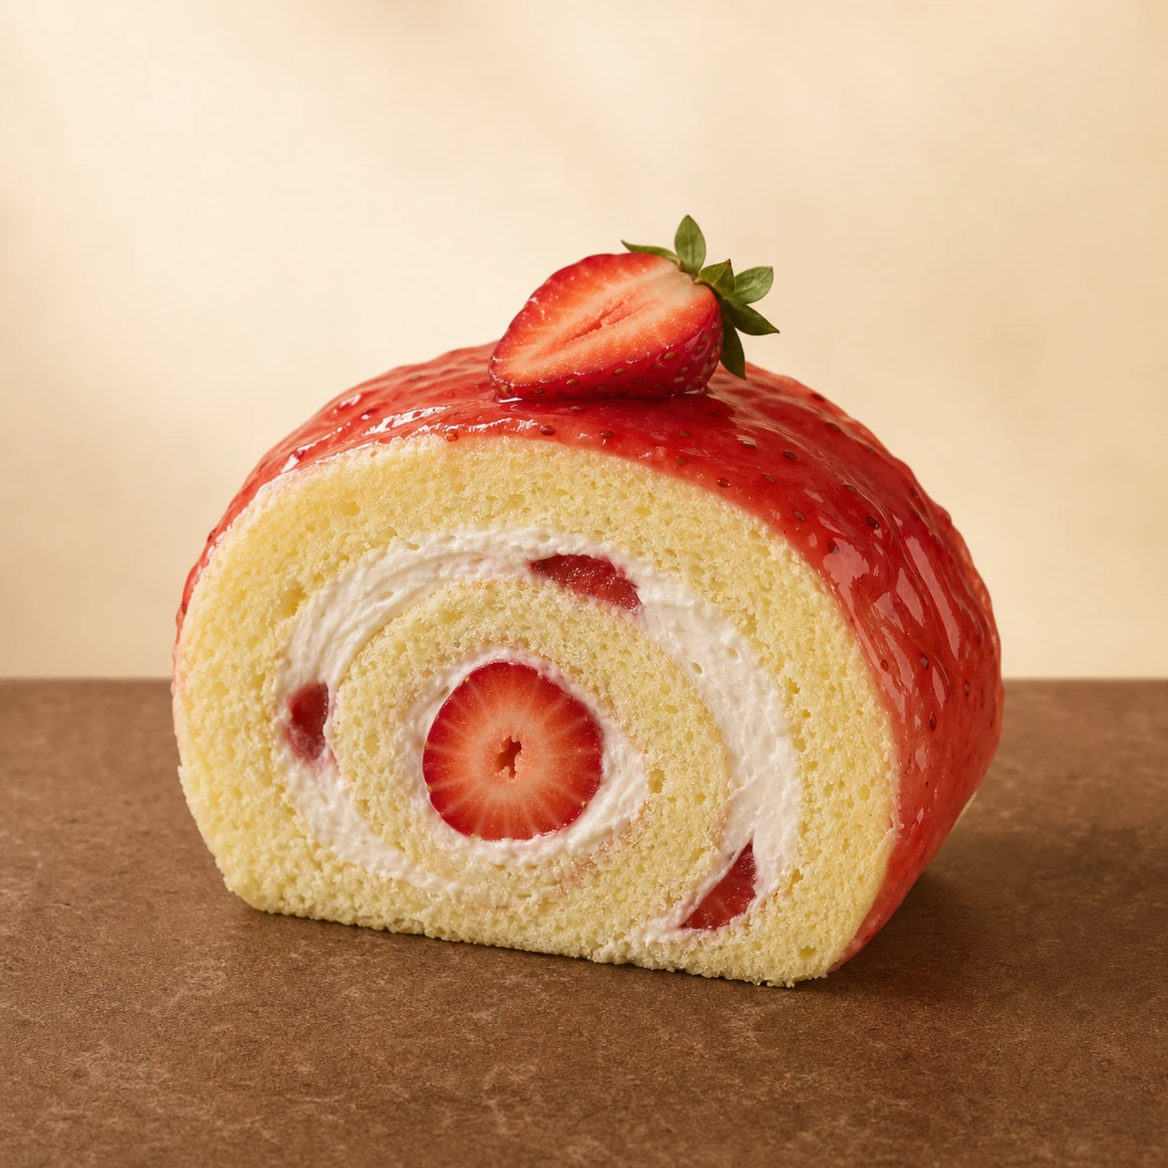
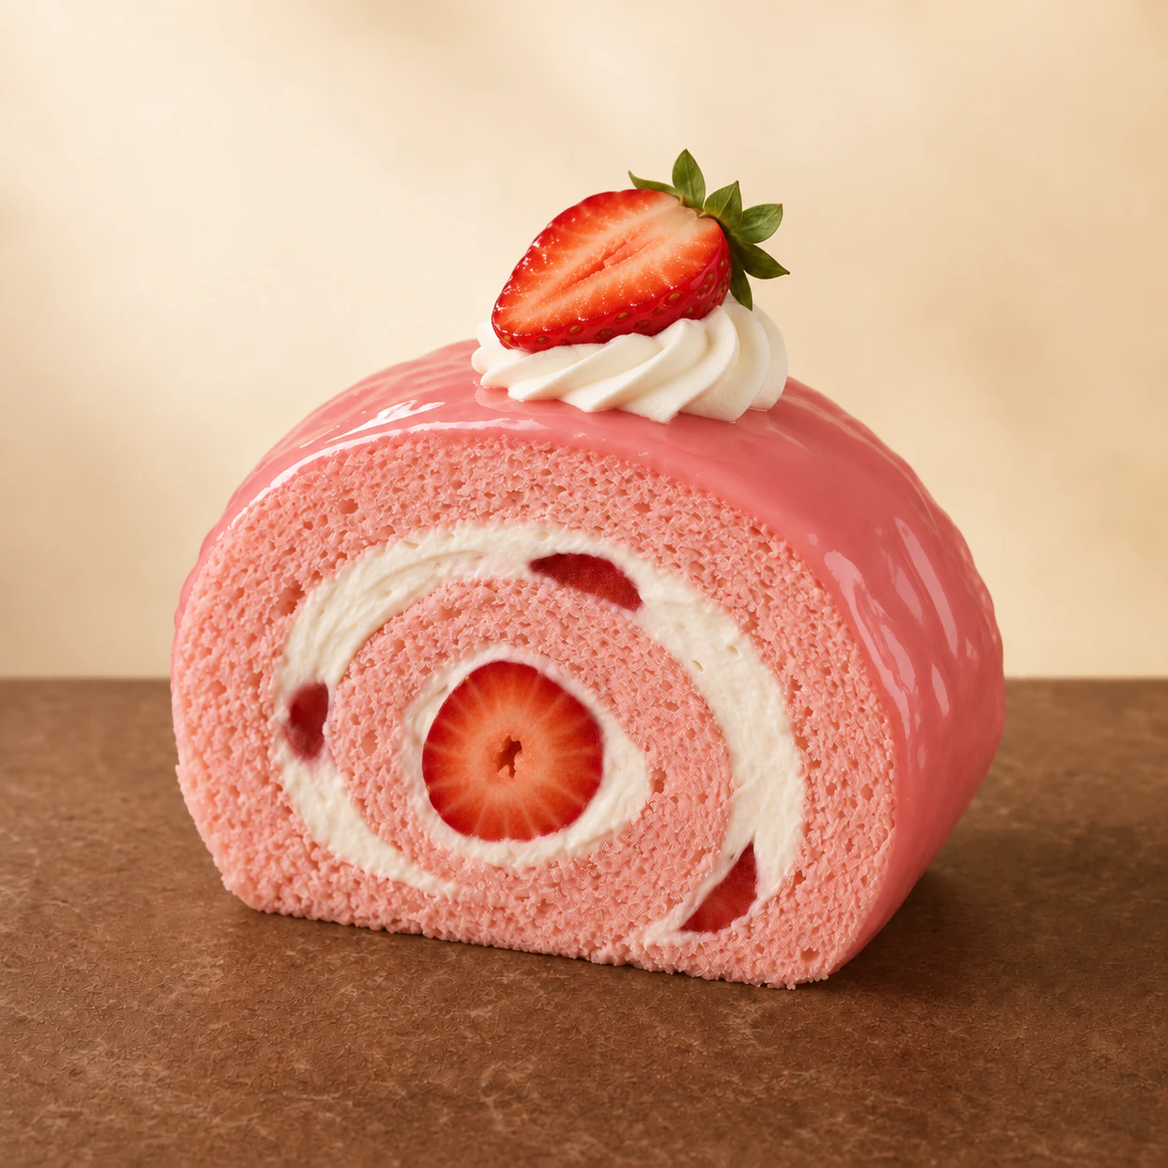
Update roll cake imagery and catalog

diff --git a/app/page.tsx b/app/page.tsx
@@ -15,7 +15,7 @@ type Product = {
   image: string;
 };
 
-const sku = (file: string) => `/products-studio/sku/${file}.webp`;
+const sku = (file: string) => `/products-studio/sku/${file.includes(".") ? file : `${file}.webp`}`;
 const makeProducts = (
   category: string,
   detail: string,
@@ -40,11 +40,10 @@ const products: Product[] = [
     ["İbiza Muzlu", "ibiza-muzlu"],
     ["İbiza Çilekli", "ibiza-cilekli"],
   ]),
-  ...makeProducts("Tartlar", "Tek porsiyon · çıtır taban", [
+  ...makeProducts("Tartlar", "Dilim servis · cafe seçkisi", [
     ["Çilekli Tart", "tart-cilekli"],
     ["Orman Meyveli Tart", "tart-orman-meyveli"],
     ["Lotuslu Tart", "tart-lotuslu"],
-    ["Oreolu Tart", "tart-oreolu"],
   ]),
   ...makeProducts("Cheesecake", "Dilim servis · cafe seçkisi", [
     ["San Sebastian", "cheesecake-san-sebastian"],
@@ -57,14 +56,15 @@ const products: Product[] = [
     ["Orman Meyveli Cheesecake", "cheesecake-orman-meyveli"],
   ]),
   ...makeProducts("Tek Pastalar", "Tek porsiyon · modern vitrin", [
-    ["Tropik Kubbe", "tek-tropical-entreme"],
-    ["Velvet Frambuaz", "tek-angel"],
     ["Vişne Beyaz", "tek-cherry-white"],
     ["Frambuaz Hindistan Cevizi", "tek-raspberry-coconut"],
     ["Fındık Pralin Baton", "tek-ferrero-stick"],
     ["Passion Lime Baton", "tek-passion-coconut-stick"],
-    ["Çilek Antep Fıstığı Kat", "tek-cilekli-kat"],
-    ["Sütlü Çikolata Karamel", "tek-milky-chocolate-mosaic"],
+    ["Sütlü Çikolata Karamel", "tek-sutlu-cikolata-karamel-v2.png"],
+    ["KitKat & Altın Çilek", "tek-kitkat-altin-cilek.png"],
+    ["Portakallı Balkabağı", "tek-portakalli-balkabagi.png"],
+    ["Çilekli Mousse", "tek-cilekli-mousse.png"],
+    ["Tahinli", "tek-tahinli.png"],
   ]),
   ...makeProducts("Magnolia", "330 cc kare cam kase", [
     ["Çilekli Magnolia", "magnolia-cilekli"],
@@ -80,11 +80,12 @@ const products: Product[] = [
     ["Dubai Magnolia", "magnolia-dubai"],
   ]),
   ...makeProducts("Mono Pasta", "8 cm genişlik · 7–8 cm yükseklik", [
-    ["Lotus", "mono-lotus"],
-    ["Lime", "mono-lime"],
-    ["Frambuaz", "mono-frambuaz"],
-    ["Mango Ananas", "mono-mango-ananas"],
-    ["Antep Fıstığı Dubai", "mono-antep-fistikli-dubai"],
+    ["Lotus", "mono-lotus-v2.png"],
+    ["Lime", "mono-lime-v2.png"],
+    ["Frambuaz", "mono-frambuaz-v2.png"],
+    ["Mango Ananas", "mono-mango-ananas-v2.png"],
+    ["Antep Fıstığı Dubai", "mono-antep-fistikli-dubai-v2.png"],
+    ["Oreo", "mono-oreo.png"],
   ]),
   ...makeProducts("Adet Pastalar", "Yaklaşık 10 cm · tam sıvalı", [
     ["Lotuslu Pasta", "adet-lotuslu"],
@@ -103,8 +104,16 @@ const products: Product[] = [
     ["Antep Fıstıklı", "pasta-antep-fistikli"],
     ["Beyaz Çikolatalı", "pasta-beyaz-cikolatali"],
     ["Ganaj Çikolatalı", "pasta-cikolatali-ganaj"],
+    ["Karamelli Pasta", "pasta-karamelli-v2.png"],
     ["Red Velvet Pasta", "pasta-red-velvet"],
     ["Devil’s Pasta", "pasta-devils"],
+  ]),
+  ...makeProducts("Pasta Çeşitleri", "Dilim pasta · beşli seri", [
+    ["Devil’s Dilim Pasta", "dilim-devils-v2.png"],
+    ["Red Velvet Dilim Pasta", "dilim-red-velvet-v2.png"],
+    ["Karamelli Dilim Pasta", "dilim-karamelli-v2.png"],
+    ["Beyaz Çikolatalı Dilim Pasta", "dilim-beyaz-cikolatali-v2.png"],
+    ["Antep Fıstıklı Dilim Pasta", "dilim-antep-fistikli-v2.png"],
   ]),
   ...makeProducts("Trileçe", "Tek porsiyon", [
     ["Karamel Trileçe", "karamel-trilece"],
@@ -115,6 +124,8 @@ const products: Product[] = [
 ];
 
 const categories = ["Tümü", ...Array.from(new Set(products.map((product) => product.category)))];
+const cafeCategories = ["Ekler", "Rulo Pastalar", "Tartlar", "Cheesecake", "Tek Pastalar", "Magnolia", "Mono Pasta"];
+const pastaneCategories = ["Adet Pastalar", "Pasta Çeşitleri", "Trileçe"];
 const whatsapp = (message: string) =>
   `https://wa.me/905015740522?text=${encodeURIComponent(message)}`;
 
@@ -220,7 +231,7 @@ export default function Home() {
           <h1>Lezzette güven, <em>sunumda kalite.</em></h1>
           <p className="hero-campaign-lead">Kafe, restoran ve işletmeler için özenle hazırlanan, servise hazır premium tatlı çözümleri.</p>
           <div className="hero-campaign-actions">
-            <a className="hero-campaign-cta" href="#urunler">69 lezzeti keşfet <span>↓</span></a>
+            <a className="hero-campaign-cta" href="#urunler">{products.length} lezzeti keşfet <span>↓</span></a>
             <a className="hero-campaign-link" href="/hikayemiz">Bizi tanıyın <span>↗</span></a>
           </div>
         </div>
@@ -232,7 +243,7 @@ export default function Home() {
       <section className="products-section" id="urunler">
         <div className="products-heading">
           <div><p className="section-index">01 / Tam seçkimiz</p><h2>Favorini seç,<br /><em>farkını göster.</em></h2></div>
-          <p>On ana kategoride profesyonel servis temposuna hazır, sunumu güçlü ve lezzeti tutarlı 69 ayrı ürün.</p>
+          <p>Kafe ve pastanelerin servis temposuna hazır, sunumu güçlü ve lezzeti tutarlı seçkin bir ürün yelpazesi.</p>
         </div>
         <aside className="price-list-cta" aria-label="Fiyat listesi talebi">
           <div>
@@ -240,6 +251,10 @@ export default function Home() {
             <h3>Listeyi iste,<br /><em>biz gönderelim.</em></h3>
           </div>
           <div className="price-list-action">
+            <div className="price-category-groups">
+              <p><strong>Kafe ürünleri</strong>{cafeCategories.join(" · ")}</p>
+              <p><strong>Pastane grubu</strong>{pastaneCategories.join(" · ")}</p>
+            </div>
             <p>Menü kapsamına ve sipariş adedine göre güncellenen fiyat listemizi WhatsApp&apos;tan talep edin.</p>
             <a href={whatsapp("Merhaba, Best Gourmet fiyat listesini almak istiyorum.")} target="_blank" rel="noreferrer">Fiyat listesini iste <span>↗</span></a>
           </div>
@@ -275,7 +290,12 @@ export default function Home() {
           {visibleProducts.map((product, index) => (
             <article className="product-card" key={`${product.category}-${product.name}`}>
               <div className="product-image-wrap">
-                <img src={product.image} alt={product.name} loading={index > 7 ? "lazy" : "eager"} />
+                <img
+                  className={product.name.startsWith("İbiza ") ? "product-image-contain" : undefined}
+                  src={product.image}
+                  alt={product.name}
+                  loading={index > 7 ? "lazy" : "eager"}
+                />
                 <span className="product-number">{String(index + 1).padStart(2, "0")}</span>
                 <a className="product-action" href={whatsapp(`Merhaba, ${product.name} (${product.category}) için bilgi ve fiyat almak istiyorum.`)} target="_blank" rel="noreferrer" aria-label={`${product.name} için WhatsApp'tan bilgi al`}>↗</a>
               </div>
@@ -287,7 +307,10 @@ export default function Home() {
       </section>
 
       <section className="production" id="uretim">
-        <div className="production-photo"><img src={sku("magnolia-lotuslu")} alt="Best Gourmet üretiminden Lotuslu Magnolia" /></div>
+        <div className="production-photo production-collage">
+          <img className="production-main-image" src="/production/uretim-studio.png" alt="Best Gourmet üretim mutfağı ve günlük tatlı hazırlığı" />
+          <div className="production-sample-card"><img src="/production/numune-kutusu-01.jpg" alt="Best Gourmet numune paketi" /><span>Numune paketi</span></div>
+        </div>
         <div className="production-copy">
           <p className="section-index light">02 / Üretim standardı</p>
           <h2>Her servis,<br />aynı <em>iyi his.</em></h2>
@@ -309,10 +332,10 @@ export default function Home() {
           collectionName="Etkinlik seçkisi"
           items={[
             { id: "ekler", image: sku("ekler-karisik-mix"), title: "Karışık Mix", category: "Fransız Ekleri" },
-            { id: "rulo", image: sku("rulo-cilekli"), title: "Çilekli Rulo", category: "Rulo Pastalar" },
+            { id: "rulo", image: sku("rulo-cilekli"), title: "Çilekli Rulo", category: "Rulo Pastalar", imageFit: "contain" },
             { id: "tart", image: sku("tart-orman-meyveli"), title: "Orman Meyveli", category: "Tartlar" },
             { id: "cheesecake", image: sku("cheesecake-san-sebastian"), title: "San Sebastian", category: "Cheesecake" },
-            { id: "tek", image: sku("tek-tropical-entreme"), title: "Tropik Kubbe", category: "Tek Pastalar" },
+            { id: "tek", image: sku("tek-kitkat-altin-cilek.png"), title: "KitKat & Altın Çilek", category: "Tek Pastalar" },
             { id: "magnolia", image: sku("magnolia-dubai"), title: "Dubai Magnolia", category: "Magnolia" },
             { id: "mono", image: sku("mono-frambuaz"), title: "Frambuaz Mono", category: "Mono Pasta" },
             { id: "adet-pasta", image: sku("adet-orman-meyveli"), title: "Orman Meyveli", category: "Adet Pastalar" },

diff --git a/app/globals.css b/app/globals.css
@@ -206,6 +206,9 @@ h1 em, h2 em { color: var(--caramel); font-weight: 400; }
 .price-list-cta h3 em { color: var(--caramel-light); }
 .price-list-action { position: relative; z-index: 1; max-width: 390px; }
 .price-list-action > p { margin: 0; color: rgba(246,240,231,.71); font-size: 14px; line-height: 1.65; }
+.price-category-groups { display: grid; gap: 14px; margin-bottom: 22px; padding-bottom: 20px; border-bottom: 1px solid rgba(246,240,231,.2); }
+.price-category-groups p { margin: 0; color: rgba(246,240,231,.7); font-size: 11px; line-height: 1.55; }
+.price-category-groups strong { display: block; margin-bottom: 4px; color: var(--caramel-light); font-size: 10px; letter-spacing: .11em; text-transform: uppercase; }
 .price-list-action a { display: inline-flex; align-items: center; gap: 24px; margin-top: 25px; padding-bottom: 10px; border-bottom: 1px solid var(--caramel-light); color: var(--cream); text-transform: uppercase; letter-spacing: .13em; font-size: 10px; font-weight: 900; transition: color .2s ease, gap .2s ease; }
 .price-list-action a:hover { color: var(--caramel-light); gap: 31px; }
 .price-list-action span { font-size: 17px; line-height: .6; }
@@ -233,6 +236,7 @@ h1 em, h2 em { color: var(--caramel); font-weight: 400; }
 .product-card { min-width: 0; }
 .product-image-wrap { aspect-ratio: 1 / 1; position: relative; overflow: hidden; background: var(--sand); }
 .product-image-wrap img { height: 100%; object-fit: cover; transition: transform .6s cubic-bezier(.2,.7,.2,1); }
+.product-image-wrap img.product-image-contain { object-fit: contain; object-position: center; }
 .product-card:hover img { transform: scale(1.045); }
 .product-number { position: absolute; left: 16px; top: 16px; background: rgba(255,253,249,.9); padding: 8px 10px; font-size: 10px; letter-spacing: .12em; font-weight: 800; }
 .product-action { position: absolute; right: 16px; bottom: 16px; width: 46px; height: 46px; border-radius: 50%; display: grid; place-items: center; background: var(--paper); font-size: 19px; transition: .25s; }
@@ -246,6 +250,11 @@ h1 em, h2 em { color: var(--caramel); font-weight: 400; }
 .production { display: grid; grid-template-columns: 1fr 1fr; min-height: 790px; background: var(--brown); color: var(--cream); }
 .production-photo { min-height: 650px; overflow: hidden; }
 .production-photo img { height: 100%; object-fit: cover; filter: saturate(.76) sepia(.09); }
+.production-collage { position: relative; padding: 28px; background: #28140d; }
+.production-collage .production-main-image { width: 100%; height: 100%; object-fit: cover; filter: saturate(.7) sepia(.12) contrast(1.05); }
+.production-sample-card { position: absolute; right: 18px; bottom: 20px; width: min(46%, 290px); padding: 8px; background: var(--cream); box-shadow: 0 20px 50px rgba(0,0,0,.38); transform: rotate(3deg); }
+.production-sample-card img { display: block; width: 100%; height: auto; aspect-ratio: 1 / .9; object-fit: cover; filter: saturate(.78) sepia(.08); }
+.production-sample-card span { display: block; padding: 10px 5px 4px; color: var(--brown); font-size: 9px; font-weight: 900; letter-spacing: .13em; text-transform: uppercase; }
 .production-copy { padding: clamp(64px, 8vw, 130px); display: flex; flex-direction: column; justify-content: center; }
 .section-index.light { color: var(--caramel-light); }
 .production h2 { margin-top: 28px; }
@@ -276,6 +285,7 @@ h1 em, h2 em { color: var(--caramel); font-weight: 400; }
 .pastry-gallery-cards { position: absolute; inset: 0; display: flex; justify-content: center; align-items: flex-end; pointer-events: none; }
 .pastry-gallery-card { position: absolute; bottom: 86px; width: clamp(150px, 13vw, 176px); aspect-ratio: .78; border-radius: 17px; overflow: hidden; background: var(--paper); border: 7px solid var(--paper); box-shadow: 0 22px 48px rgba(42,22,15,.26); transform-origin: 50% 100%; transform: translate3d(calc(var(--offset) * 5px), calc(var(--offset) * -3px + var(--drag-y)), 0) rotate(calc(var(--offset) * 2.1deg)) scale(var(--stack-scale)); transition: transform .7s cubic-bezier(.2,.82,.2,1), box-shadow .35s ease, filter .35s ease; touch-action: none; user-select: none; }
 .pastry-gallery-card img { width: 100%; height: 100%; object-fit: cover; pointer-events: none; }
+.pastry-gallery-card img.product-image-contain { object-fit: contain; object-position: center; }
 .pastry-card-caption { position: absolute; inset: auto 0 0; padding: 38px 15px 14px; color: var(--white); background: linear-gradient(transparent, rgba(31,14,8,.86)); display: grid; gap: 4px; opacity: 0; transform: translateY(8px); transition: .35s ease; }
 .pastry-card-caption span { text-transform: uppercase; letter-spacing: .16em; font-size: 7px; font-weight: 800; color: var(--caramel-light); }
 .pastry-card-caption strong { font-family: Georgia, serif; font-size: 17px; font-weight: 500; }
@@ -447,6 +457,8 @@ footer p:last-child { text-align: right; }
 .brand-page-hero-copy p { margin: 0 0 36px; color: rgba(42,22,15,.68); font-family: Georgia, serif; font-size: clamp(21px, 2vw, 31px); line-height: 1.42; letter-spacing: -.025em; }
 
 .story-editorial { display: grid; grid-template-columns: .9fr 1.1fr; min-height: 930px; }
+.story-editorial.story-text-only { display: block; min-height: 0; background: var(--cream); }
+.story-editorial.story-text-only .story-editorial-copy { max-width: 1080px; min-height: 0; margin: 0 auto; }
 .story-photo { min-height: 760px; overflow: hidden; background: var(--sand); }
 .story-photo img { height: 100%; object-fit: cover; }
 .story-editorial-copy { padding: clamp(70px, 9vw, 145px) clamp(30px, 8vw, 130px); display: flex; flex-direction: column; justify-content: center; }
@@ -581,6 +593,8 @@ footer p:last-child { text-align: right; }
   .product-image-wrap { aspect-ratio: 1 / 1; }
   .production { grid-template-columns: 1fr; }
   .production-photo { min-height: 520px; }
+  .production-collage { padding: 18px; }
+  .production-sample-card { right: 18px; bottom: 18px; width: 45%; }
   .production-copy { padding: 72px 24px; }
   .event-cards { grid-template-columns: 1fr; margin-top: 58px; }
   .pastry-gallery { margin-top: 58px; padding-top: 22px; }

diff --git a/app/referanslar/page.tsx b/app/referanslar/page.tsx
@@ -8,9 +8,8 @@ export const metadata: Metadata = {
 };
 
 const referenceGroups = [
-  { number: "01", title: "Kafe & Coffee Shop", body: "Vitrin seçkisi, porsiyon planı ve servis hızına uygun ürün çözümleri." },
-  { number: "02", title: "Restoran & Otel", body: "Menü karakterine uyum sağlayan, sunumu ve gramajı standart tatlı üretimi." },
-  { number: "03", title: "Etkinlik & Organizasyon", body: "Davet ölçeğine göre planlanan üretim, sunum ve kontrollü teslimat akışı." },
+  { number: "07", title: "Kafe", body: "Vitrin seçkisi, porsiyon planı ve servis hızına uygun ürün çözümleri." },
+  { number: "01", title: "Pastane", body: "Ürün çeşitliliği, günlük üretim ritmi ve güçlü vitrin sunumu için birlikte çalışıyoruz." },
 ];
 
 export default function ReferencesPage() {
@@ -23,15 +22,15 @@ export default function ReferencesPage() {
           <h1>Her iyi iş birliği,<br />vitrinde kalıcı bir<br /><em>iz bırakır.</em></h1>
         </div>
         <div className="brand-page-hero-copy">
-          <p>Referanslarımızı, birlikte çalıştığımız markaların onayı ve güncel proje bilgileriyle burada paylaşacağız. Şimdilik iş birliği alanlarımızı ve çalışma yaklaşımımızı inceleyebilirsiniz.</p>
-          <a className="text-link" href="#alanlar">Çalışma alanları <span>↓</span></a>
+          <p>Şu anda 7 kafe ve 1 pastane ile çalışıyor; her işletmenin ritmine uygun, düzenli ve güçlü bir tatlı seçkisi oluşturuyoruz.</p>
+          <a className="text-link" href="#alanlar">İş ortaklıklarını gör <span>↓</span></a>
         </div>
       </section>
 
       <section className="reference-stage" id="alanlar">
         <div className="reference-stage-heading">
-          <p className="section-index">01 / İş birliği alanları</p>
-          <h2>İhtiyaca göre şekillenen,<br /><em>tek bir kalite anlayışı.</em></h2>
+          <p className="section-index">01 / Şu an birlikte çalıştıklarımız</p>
+          <h2>Farklı işletmeler,<br /><em>aynı iyi standart.</em></h2>
         </div>
         <div className="reference-grid">
           {referenceGroups.map((group) => (
@@ -46,8 +45,8 @@ export default function ReferencesPage() {
       </section>
 
       <section className="reference-note">
-        <p className="section-index light">02 / Yakında</p>
-        <div><h2>İsimleri değil,<br /><em>gerçek işleri</em> paylaşacağız.</h2><p>Bu sayfa; onaylanan marka logoları, proje fotoğrafları ve kısa iş birliği notları geldikçe güncellenecek. Böylece burada yalnızca doğrulanmış ve güncel referanslar yer alacak.</p></div>
+        <p className="section-index light">02 / Çalışma yaklaşımımız</p>
+        <div><h2>İsimlerden önce,<br /><em>sağlam iş</em> gelir.</h2><p>Her işletmenin servis temposu ve vitrini farklıdır. Best Gourmet seçkisini; menü yapısına, satış ritmine ve sunum ihtiyacına göre birlikte planlarız. Ortak noktamız ise değişmez: her serviste aynı güveni veren ürünler.</p></div>
       </section>
 
       <section className="brand-page-cta">

diff --git a/app/hikayemiz/page.tsx b/app/hikayemiz/page.tsx
@@ -23,14 +23,23 @@ export default function StoryPage() {
         </div>
       </section>
 
-      <section className="story-editorial">
-        <div className="story-photo"><img src="/products-studio/sku/pasta-orman-meyveli.webp" alt="Best Gourmet Orman Meyveli Pasta" /></div>
+      <section className="story-editorial story-text-only">
         <div className="story-editorial-copy">
           <p className="section-index">01 / Bizim için mesele</p>
           <h2>Lezzeti biraz daha<br /><em>kişisel</em> hâle getirmek.</h2>
           <p>Biz tatlıya sadece reçete olarak bakmıyoruz. Bir vitrinde ilk bakışı, masada ilk heyecanı ve bittikten sonra akılda kalan o küçük duyguyu da düşünüyoruz. O yüzden her üründe tanıdık aromaları koruyor, sunumu ise bugünün enerjisiyle yeniden yorumluyoruz.</p>
           <p>Profesyonel mutfakların hızını biliyoruz. Ürünün iyi olması kadar doğru porsiyonda gelmesi, servis sırasında formunu koruması ve her siparişte aynı standardı vermesi gerektiğini de biliyoruz. Best Gourmet’in asıl sözü burada başlıyor: Gösterişli laflardan önce düzgün iş, güçlü lezzet ve güvenilir bir üretim düzeni.</p>
           <p>İş ortaklarımızın menüsüne kendi imzamızı zorla atmak yerine, onların karakterini daha görünür hâle getiren ürünler tasarlıyoruz. Bazen klasik bir lezzeti sadeleştiriyor, bazen de yeni bir dokunuşla vitrinin en merak edilen parçasına dönüştürüyoruz.</p>
+        </div>
+      </section>
+
+      <section className="story-editorial story-founder story-text-only">
+        <div className="story-editorial-copy">
+          <p className="section-index">01.1 / Kurucumuz</p>
+          <h2>Mutfağın içinden gelen<br /><em>bir lezzet anlayışı.</em></h2>
+          <p><strong>Bilal Sefer Aydın</strong>, Best Gourmet&apos;in kurucusu olarak markanın her ürününde mutfak disiplinini, sahadaki servis ihtiyacını ve iyi sunumun verdiği heyecanı bir araya getiriyor.</p>
+          <p>Kumburgaz Turizm Otelcilik Lisesi&apos;nde başlayan yolculuğunu İstinye Üniversitesi Gastronomi eğitimiyle geliştiren Bilal; yaklaşık 10 yıllık mutfak tecrübesi boyunca reçeteden üretim planına, vitrinden servis anına kadar her ayrıntının içinde yer aldı.</p>
+          <p>Best Gourmet&apos;teki hedefi net: iyi ürünü erişilebilir, tutarlı ve işletmeler için gerçekten çalışır hâle getirmek. Bu yüzden her tarifte lezzetin yanında porsiyon, form, teslimat ve tekrar edilebilirliği de düşünür.</p>
         </div>
       </section>
 

diff --git a/vite.config.ts b/vite.config.ts
@@ -1,59 +1,15 @@
-import vinext from "vinext";
+import vinext from "vinext";
 import { defineConfig } from "vite";
-import hostingConfig from "./.openai/hosting.json";
-import { sites } from "./build/sites-vite-plugin";
+import { cloudflare } from "@cloudflare/vite-plugin";
 
-const SITE_CREATOR_PLACEHOLDER_DATABASE_ID =
-  "00000000-0000-4000-8000-000000000000";
-
-const { d1, r2 } = hostingConfig;
-
-// macOS Seatbelt blocks FSEvents, so Codex previews need polling for HMR.
-const isCodexSeatbeltSandbox = process.env.CODEX_SANDBOX === "seatbelt";
-
-const localBindingConfig = {
-  main: "./worker/index.ts",
-  compatibility_flags: ["nodejs_compat"],
-  d1_databases: d1
-    ? [
-        {
-          binding: d1,
-          database_name: "site-creator-d1",
-          database_id: SITE_CREATOR_PLACEHOLDER_DATABASE_ID,
-        },
-      ]
-    : [],
-  r2_buckets: r2
-    ? [
-        {
-          binding: r2,
-          bucket_name: "site-creator-r2",
-        },
-      ]
-    : [],
-};
-
-export default defineConfig(async () => {
-  // Keep Wrangler and Miniflare state project-local. These are non-secret tool
-  // settings; application environment belongs in ignored `.env*` files.
-  process.env.WRANGLER_WRITE_LOGS ??= "false";
-  process.env.WRANGLER_LOG_PATH ??= ".wrangler/logs";
-  process.env.MINIFLARE_REGISTRY_PATH ??= ".wrangler/registry";
-
-  // Wrangler snapshots its log path while the Cloudflare plugin is imported.
-  const { cloudflare } = await import("@cloudflare/vite-plugin");
-
-  return {
-    server: isCodexSeatbeltSandbox
-      ? { watch: { useFsEvents: false, usePolling: true } }
-      : undefined,
-    plugins: [
-      vinext(),
-      sites(),
-      cloudflare({
-        viteEnvironment: { name: "rsc", childEnvironments: ["ssr"] },
-        config: localBindingConfig,
-      }),
-    ],
-  };
+export default defineConfig({
+  plugins: [
+    vinext(),
+    cloudflare({
+      viteEnvironment: {
+        name: "rsc",
+        childEnvironments: ["ssr"],
+      },
+    }),
+  ],
 });

diff --git a/app/layout.tsx b/app/layout.tsx
@@ -4,11 +4,11 @@ import "./globals.css";
 export const metadata: Metadata = {
   metadataBase: new URL("https://gourmetbest.tr"),
   title: "Best Gourmet | Profesyonel Lezzet",
-  description: "Yeni nesil işletmeler için 10 kategoride 69 çeşit premium tatlı. Güvenilir üretim, güçlü sunum ve planlı tedarik.",
+  description: "Yeni nesil işletmeler için seçkin premium tatlılar. Güvenilir üretim, güçlü sunum ve planlı tedarik.",
   keywords: ["Best Gourmet", "toptan tatlı", "premium pasta", "etkinlik tatlıları", "İstanbul tatlı üretimi"],
   openGraph: {
     title: "Best Gourmet | Tatlı değil, imza bırakıyoruz.",
-    description: "Profesyonel mutfaklar ve etkinlikler için 10 kategoride 69 çeşit premium tatlı.",
+    description: "Profesyonel mutfaklar ve etkinlikler için seçkin premium tatlılar.",
     url: "https://gourmetbest.tr",
     siteName: "Best Gourmet",
     type: "website",

diff --git a/components/ui/interactive-pastry-gallery.tsx b/components/ui/interactive-pastry-gallery.tsx
@@ -7,6 +7,7 @@ export type PastryGalleryItem = {
   image: string;
   title: string;
   category: string;
+  imageFit?: "cover" | "contain";
 };
 
 type InteractivePastryGalleryProps = {
@@ -102,7 +103,7 @@ export function InteractivePastryGallery({
                   onPointerUp={(event) => endDrag(event, item.id)}
                   onPointerCancel={(event) => endDrag(event, item.id)}
                 >
-                  <img src={item.image} alt={item.title} draggable="false" />
+                  <img className={item.imageFit === "contain" ? "product-image-contain" : undefined} src={item.image} alt={item.title} draggable="false" />
                   <div className="pastry-card-caption"><span>{item.category}</span><strong>{item.title}</strong></div>
                 </article>
               );
